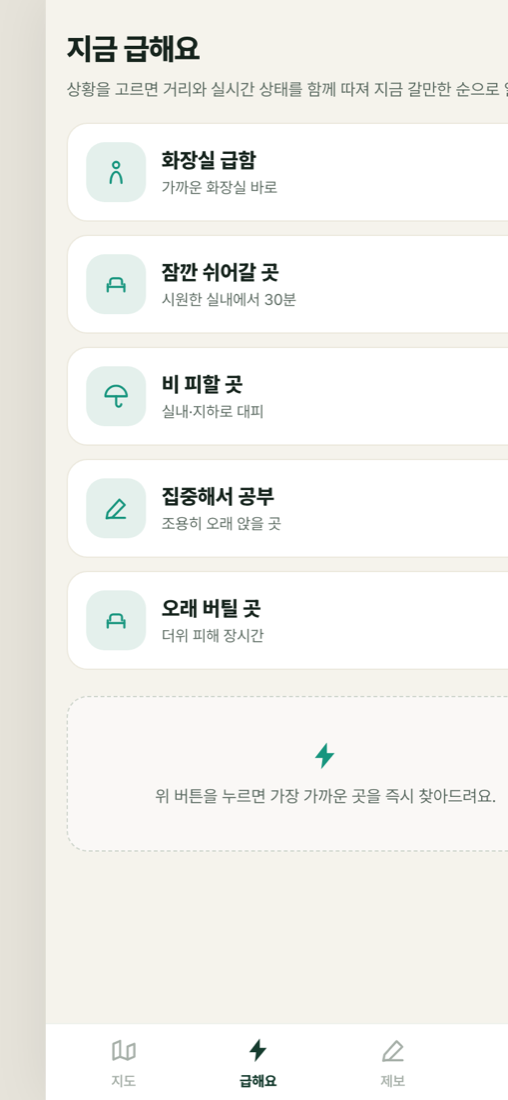
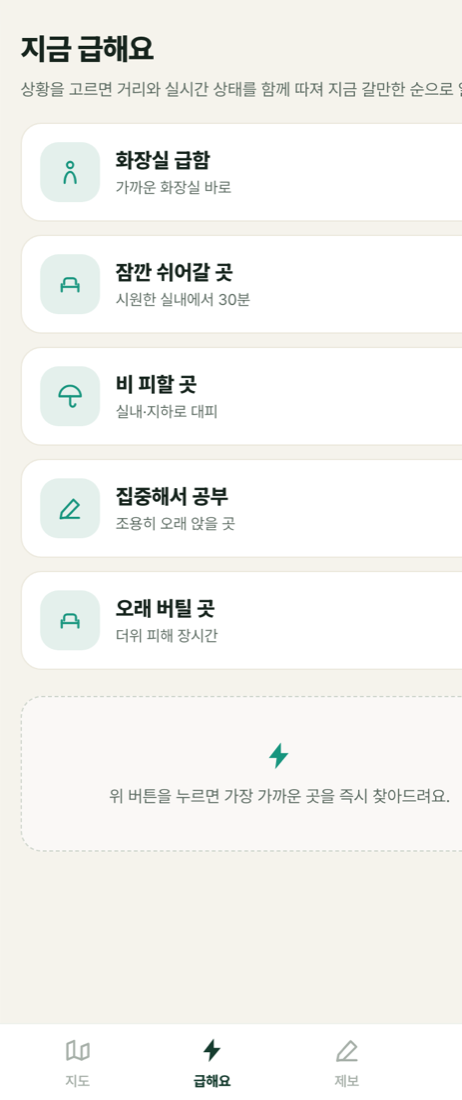
docs: refine mobile captures and add architecture overview

diff --git a/README.en.md b/README.en.md
@@ -63,6 +63,12 @@ On mobile, the map and bottom sheet support nearby discovery, while scenario rec
 
 ## Architecture
 
+![Service architecture at a glance](./docs/media/architecture-overview.svg)
+
+Requests flow from the browser through the same-origin BFF to the AWS API, while PostGIS handles spatial search and status aggregation. Deployment and the monthly library sync are separate operational paths.
+
+### Detailed architecture
+
 ![Architecture diagram](./docs/media/architecture.svg)
 
 The browser calls only a same-origin `/api/*` server proxy (BFF). This avoids the ALB HTTP and CORS constraints. Spatial search and geo-temporal aggregation run through GiST indexes and SQL views in the database ([ADR-0004](./docs/adr/0004-frontend-same-origin-proxy.md)).

diff --git a/README.md b/README.md
@@ -63,6 +63,12 @@
 
 ## 아키텍처
 
+![서비스 구조 한눈에 보기](./docs/media/architecture-overview.svg)
+
+요청은 브라우저에서 동일 오리진 BFF를 거쳐 AWS API로 흐르고, 공간 검색·상태 집계는 PostGIS에서 처리합니다. 배포와 월간 도서관 동기화는 운영 경로로 분리했습니다.
+
+### 상세 구조
+
 ![아키텍처 다이어그램](./docs/media/architecture.svg)
 
 브라우저는 동일 오리진 `/api/*` 서버 프록시(BFF)만 호출합니다. 이 경로로 ALB의 HTTP·CORS 제약을 피하고, 공간 검색과 시공간 집계는 DB의 GiST 인덱스와 SQL 뷰에서 처리합니다([ADR-0004](./docs/adr/0004-frontend-same-origin-proxy.md)).